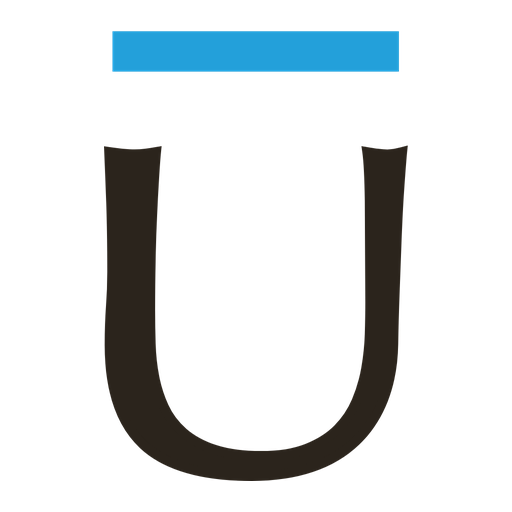
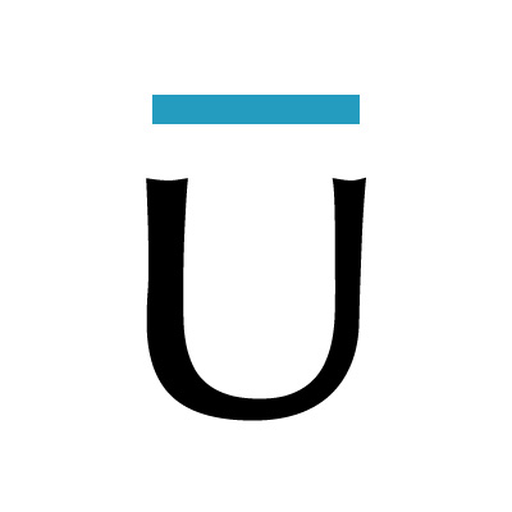
仮公開の更新（サイトのアイコンを logo2 に）

Changed region(s): [[0.1875, 0.2812, 0.8125, 0.9375], [0.2188, 0.0625, 0.7812, 0.25]]

diff --git a/index.html b/index.html
@@ -21,7 +21,6 @@
 
 <!-- ブラウザのタブ・スマホのホーム画面のアイコン（ロゴの最後の文字「Ū」。黒い U に東川町の青の横線） -->
 <link rel="icon" href="favicon.ico" sizes="any">
-<link rel="icon" type="image/svg+xml" href="assets/img/icon.svg">
 <link rel="icon" type="image/png" href="assets/img/icon-512.png">
 <link rel="apple-touch-icon" href="apple-touch-icon.png">
 
